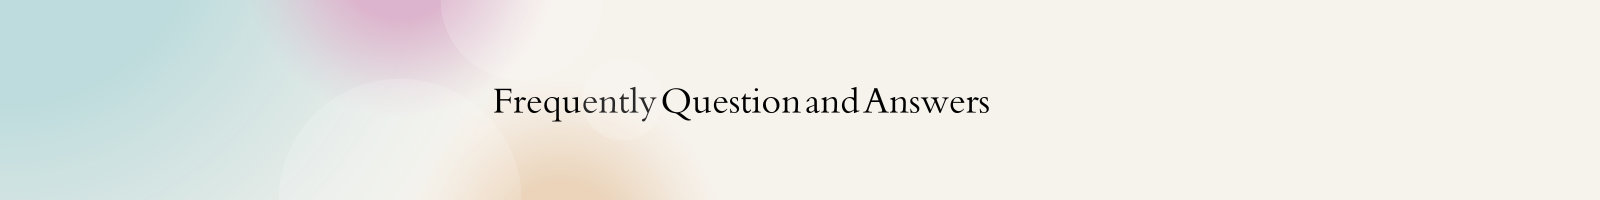
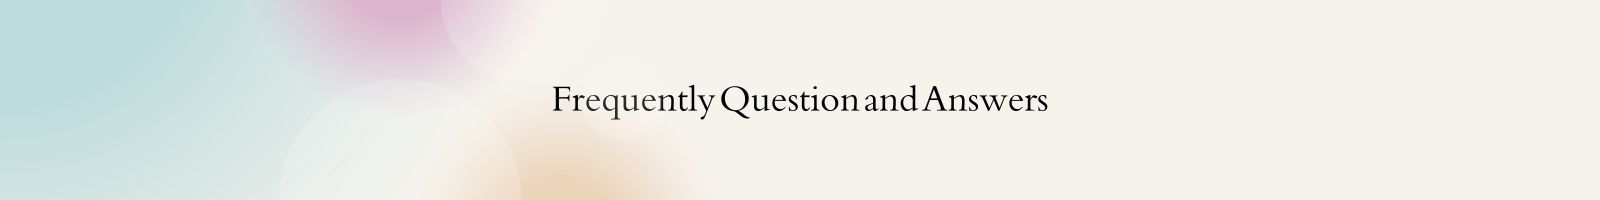
Responsiveness

Changed region(s): [[0.3125, 0.42, 0.6562, 0.6]]

diff --git a/src/components/Footer/style.css b/src/components/Footer/style.css
@@ -9,10 +9,10 @@ footer .box {
 }
 
 footer h1 {
-  margin: 0;
-  font-size: 25px;
-  font-weight: 800;
-  width: max-content;
+  /* margin: 0; */
+  font-size: 20px;
+  font-weight: 700;
+  max-width: max-content;
 }
 
 footer .logo {
@@ -20,7 +20,8 @@ footer .logo {
   display:flex;
   align-items:center;
   gap:5px;
-  margin-bottom: 20px;
+  margin-bottom: 10px;
+  margin-left: -35px;
 }
 footer h2 {
   font-size: 20px;
@@ -35,6 +36,29 @@ footer p {
   margin-bottom: 20px;
   opacity: 0.5;
 }
+
+/* social media icon */
+.follows {
+  display: flex;
+  align-items: center;
+  margin-top: 20px;
+}
+
+.follows p {
+  margin-right: 10px;
+  color: #fff;
+}
+
+.follows span {
+  margin-right: 10px;
+}
+
+.follows a {
+  color: #fff; 
+  text-decoration: none;
+}
+
+
 
 footer h2 {
   margin-bottom: 20px;

diff --git a/src/components/FAQS/FAQS.jsx b/src/components/FAQS/FAQS.jsx
@@ -1,7 +1,6 @@
 import React, { useState } from 'react';
 // import { FaFacebook, FaInstagram, FaTwitter } from "react-icons/fa"; // Importing the icons
 import './FAQS.css';
-import FaQBanner from '../../Images/footer5.png'
 
 const FAQS = () => {
   const [faqData, setFaqData] = useState([
@@ -40,9 +39,6 @@ const FAQS = () => {
 
   return (
     <div>
-    <div className='faq-banner'>
-        <img src={FaQBanner} alt="" />
-      </div>
     <div className="faq-container">
       <h1>Frequently Asked Questions</h1>
       <div className="faq-list">

diff --git a/src/components/FAQS/FAQS.css b/src/components/FAQS/FAQS.css
@@ -7,10 +7,23 @@
 }
 
 .faq-banner{
-  width: 100%;
+  max-width: 100%;
   height: auto;
 }
-
+@media only screen and (max-width: 600px) {
+  .faq-banner {
+    /* Responsive for mobile devices */
+    width: 10%;
+    height: auto;
+  }
+}
+@media only screen and (min-width: 601px) and (max-width: 1024px) {
+  .faq-banner {
+    /* responsive for iPad and tablets */
+    width: 100%;
+    height: auto;
+  }
+}
 .faq-container h1 {
   color: darkslategray;
 }

diff --git a/src/components/HoldersMain/holders.css b/src/components/HoldersMain/holders.css
@@ -94,7 +94,7 @@
   /* Responsive for iPad */
 @media only screen and (max-width: 768px) {
   .holderHeading {
-     margin-left: 10em; 
+     margin-left: 8em; 
      margin-top: 2px;
 
    }
@@ -103,7 +103,7 @@
  /* Responsive for Mobile*/
  @media only screen and (max-width: 480px) {
    .holderHeading {
-     margin-left: 2em; 
+     margin-left: 1em; 
      margin-top: 2px;
    }
  }

diff --git a/src/components/ScreenProtMain/protector.css b/src/components/ScreenProtMain/protector.css
@@ -32,7 +32,7 @@
 /* Responsive for iPad */
 @media only screen and (max-width: 768px) {
  .pHeading {
-    margin-left: 10em; 
+    margin-left: 8em; 
     margin-top: 2px;
   }
 }
@@ -40,7 +40,7 @@
 /* Responsive for Mobile*/
 @media only screen and (max-width: 480px) {
   .pHeading {
-    margin-left: 2em; 
+    margin-left: 1em; 
     margin-top: 2px;
   }
 }
